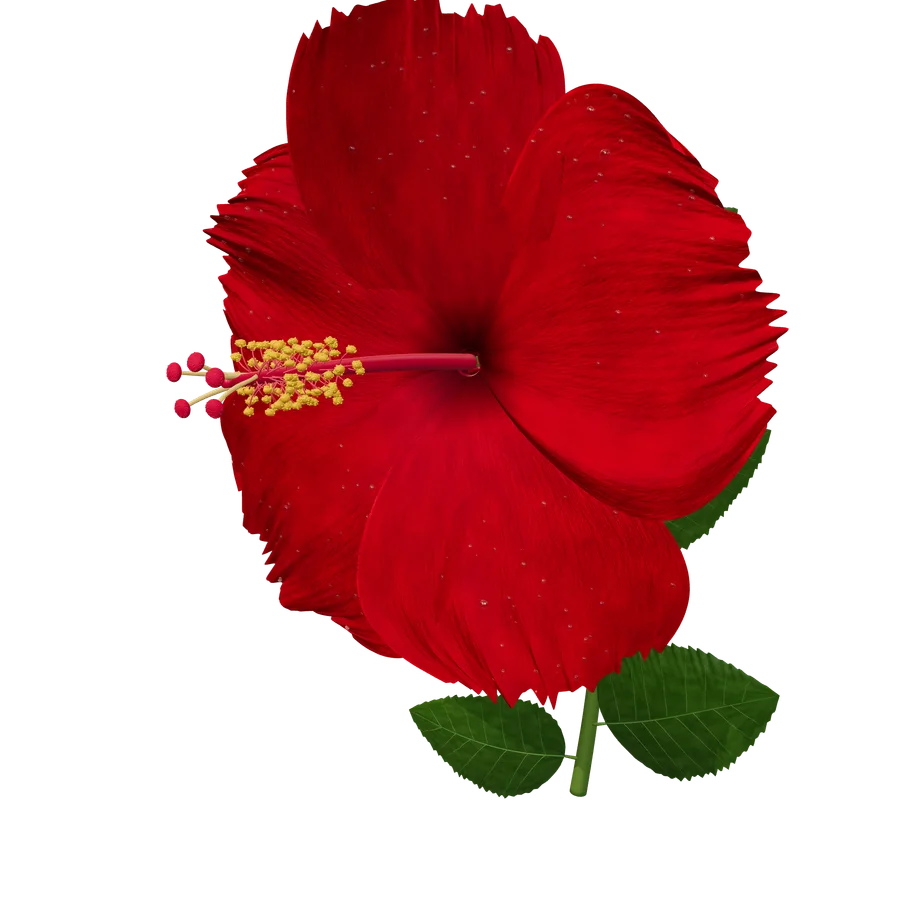
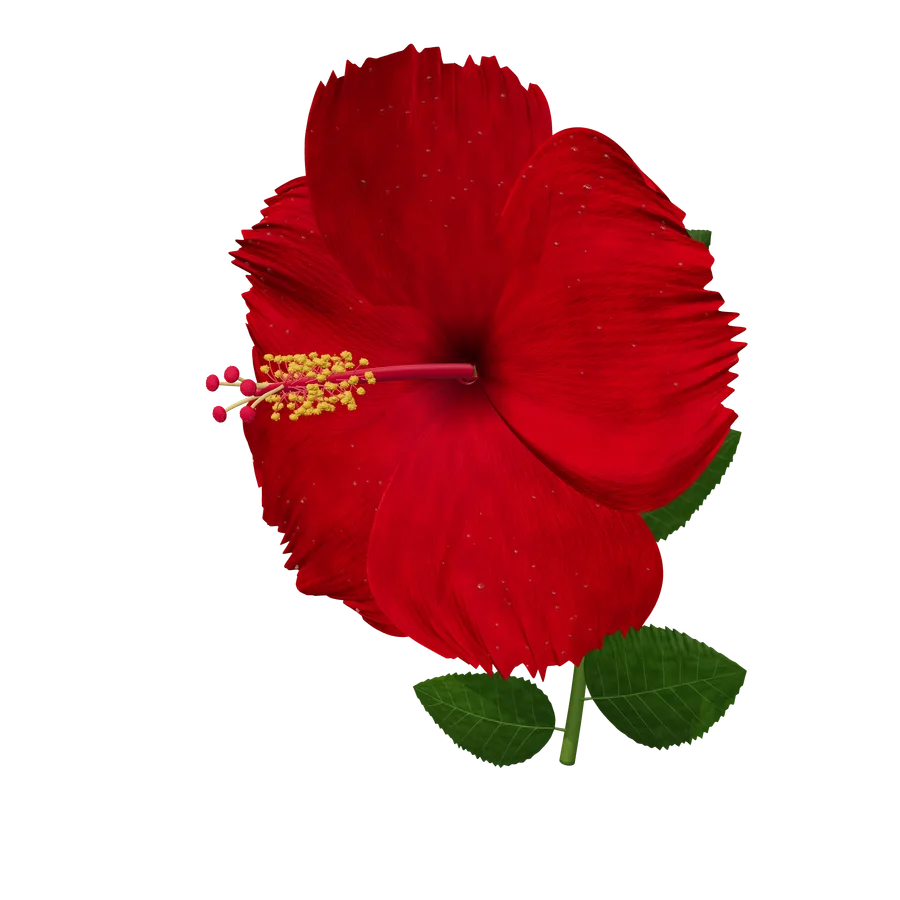
Fill viewport and match loading poster to portrait framing

diff --git a/index.html b/index.html
@@ -20,7 +20,23 @@
 /* Compact the gap above camera views and reclaim the mobile help row. */
 #stage{bottom:98px}
 @media(max-width:700px){.help{display:none}.controls{bottom:calc(12px + env(safe-area-inset-bottom,0px))}#stage{bottom:calc(74px + env(safe-area-inset-bottom,0px))}.stage-meta{bottom:calc(84px + env(safe-area-inset-bottom,0px))}}
-#poster{position:absolute;inset:0;width:100%;height:100%;object-fit:contain;pointer-events:none}#loading{inset:auto 0 42px;padding:8px;letter-spacing:.5px;text-shadow:0 1px 4px #000}#stage[aria-busy=true] canvas{visibility:hidden}
+/* Match the portrait camera's max(1, .78 / aspect) framing. */
+#poster{position:absolute;left:50%;top:50%;width:min(100vw / .78,100dvh);height:min(100vw / .78,100dvh);transform:translate(-50%,-50%);object-fit:contain;pointer-events:none}#loading{inset:auto 0 42px;padding:8px;letter-spacing:.5px;text-shadow:0 1px 4px #000}#stage[aria-busy=true] canvas{visibility:hidden}
+/* Full-window canvas with readable floating controls. */
+#stage{position:fixed;inset:0}
+.head-right>button,.views{background:var(--panel);backdrop-filter:blur(16px);-webkit-backdrop-filter:blur(16px);box-shadow:0 4px 20px #0003}
+.head-right>button:hover{background:#304a3e}
+.light .head-right>button:hover{background:#e4e8da}
+.help,.stage-meta{bottom:39px;line-height:1.8;pointer-events:none;text-shadow:0 1px 5px #000,0 0 12px #10221b}
+.stage-meta span{margin-top:0;opacity:.8}
+.light .help,.light .stage-meta{text-shadow:0 1px 5px #fff,0 0 12px #f5f1e7}
+#loading{bottom:104px}
+@media(max-width:1000px) and (min-width:701px){.help,.stage-meta{font-size:11px}.stage-meta span{font-size:11px}.help{left:20px}.stage-meta{right:20px}}
+@media(max-width:700px){
+  .stage-meta{right:16px;bottom:calc(80px + env(safe-area-inset-bottom,0px));font-size:11px}
+  .stage-meta span{display:block;font-size:11px}
+  #loading{bottom:calc(128px + env(safe-area-inset-bottom,0px))}
+}
 </style></head><body>
 <header><div class="head-right"><span class="status" id="status" hidden>PREPARING MODEL</span><button class="rotate" id="rotate" aria-pressed="false">↻ Auto rotate</button><button class="detail-trigger" id="details" aria-expanded="false" aria-controls="detail-panel">Display settings</button><button class="icon" id="fullscreen" aria-label="Toggle fullscreen" title="Fullscreen">⛶</button></div></header>
 <main id="stage" aria-busy="true"><img id="poster" src="./assets/hibiscus-poster.webp" alt="Scarlet hibiscus flower" fetchpriority="high"><div id="loading" role="status">Loading interactive 3D…</div></main>

diff --git a/src/viewer.js b/src/viewer.js
@@ -81,7 +81,12 @@ const presets = {
 };
 function go(name, instant = false) {
   const source = presets[name];
-  const factor = name === "macro" ? 1 : Math.max(1, 0.78 / camera.aspect);
+  const responsiveFactor = Math.max(1, 0.78 / camera.aspect);
+  // Preserve the poster's perspective on narrow screens: widen the lens rather
+  // than moving the portrait camera away from the flower.
+  const factor = name === "portrait" ? 1.12 : name === "macro" ? 1 : responsiveFactor;
+  camera.zoom = name === "portrait" ? 1 / responsiveFactor : 1;
+  camera.updateProjectionMatrix();
   const view = source
     ? {
         target: source.target,
